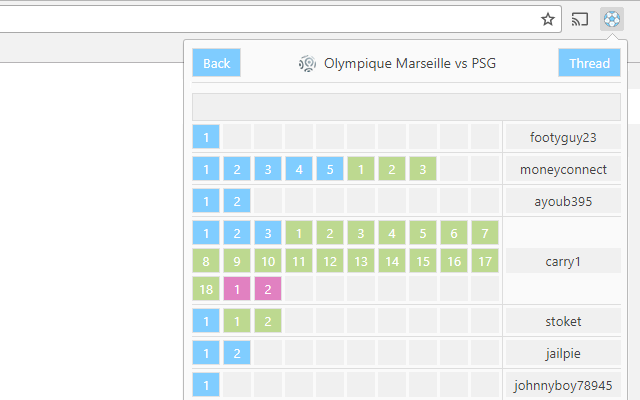
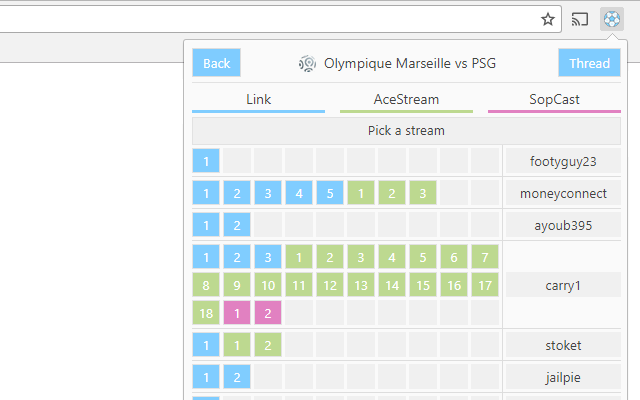
Color legend in streams page. Other small changes for a more intuitive UI.

diff --git a/lib/classes.ts b/lib/classes.ts
@@ -90,7 +90,7 @@ class App {
 
     DomHelper.hideElement(domHelper.streamTypeDiv);
   
-    domHelper.clipboardTextarea.value = '';
+    domHelper.clipboardTextarea.value = 'Pick a stream';
     domHelper.clipboardTextarea.disabled = true;
 
     let threadButton = document.getElementById('thread-button');
@@ -212,6 +212,9 @@ class App {
         linkButton.addEventListener('mouseover', () => {
           DomHelper.showStreamTitle(stream.links[i].title);
         }, false);
+        linkButton.addEventListener('mouseout', () => {
+          DomHelper.showStreamTitle('');
+        }, false);
 
         let rowDiv = document.createElement('div');
         rowDiv.appendChild(linksTd);
@@ -242,6 +245,9 @@ class App {
         aceStreamButton.addEventListener('mouseover', () => {
           DomHelper.showStreamTitle(stream.aceStreams[i].title);
         }, false);
+        aceStreamButton.addEventListener('mouseout', () => {
+          DomHelper.showStreamTitle('');
+        }, false);
   
         linksTd.appendChild(aceStreamButton);
       }
@@ -268,6 +274,9 @@ class App {
         }, false);
         sopCastStreamButton.addEventListener('mouseover', () => {
           DomHelper.showStreamTitle(stream.sopCastStreams[i].title);
+        }, false);
+        sopCastStreamButton.addEventListener('mouseout', () => {
+          DomHelper.showStreamTitle('');
         }, false);
   
         linksTd.appendChild(sopCastStreamButton);

diff --git a/css/main.css b/css/main.css
@@ -230,7 +230,7 @@ tr, td {
     display: table;
     width: 100%;
     border-bottom: 1px solid #e2e2e2;
-    margin-bottom: 10px;
+    margin-bottom: 6px;
 }
 #streams-wrap header .header-part {
     display: table-cell;
@@ -252,6 +252,29 @@ tr, td {
 }
 #streams-wrap header button:hover {
     background: #77c4f7;
+}
+#streams-wrap .legend {
+    padding-bottom: 4px;
+    font-size: 0;
+}
+#streams-wrap .legend-item {
+    display: inline-block;
+    width: 31%;
+    border-bottom: 3px solid;
+    padding-bottom: 2px;
+    font-size: 14px;
+    text-align: center;
+}
+#streams-wrap .legend-item.link {
+    margin-right: 3.5%;
+    border-bottom-color: #80cdff;
+}
+#streams-wrap .legend-item.acestream {
+    margin-right: 3.5%;
+    border-bottom-color: #bdd990;
+}
+#streams-wrap .legend-item.sopcast {
+    border-bottom-color: #e181c1;
 }
 
 #streams tr td {

diff --git a/popup.html b/popup.html
@@ -21,10 +21,15 @@
           <button id="thread-button">Thread</button>
         </div>
       </header>
+      <div class="legend">
+        <div class="legend-item link">Link</div>
+        <div class="legend-item acestream">AceStream</div>
+        <div class="legend-item sopcast">SopCast</div>
+      </div>
 
       <div id="clipboard-wrap">
         <div id="stream-type"></div>
-        <textarea id="clipboard" spellcheck="false" disabled></textarea>
+        <textarea id="clipboard" spellcheck="false" disabled>Pick a stream</textarea>
       </div>
 
       <table id="streams"></table>
